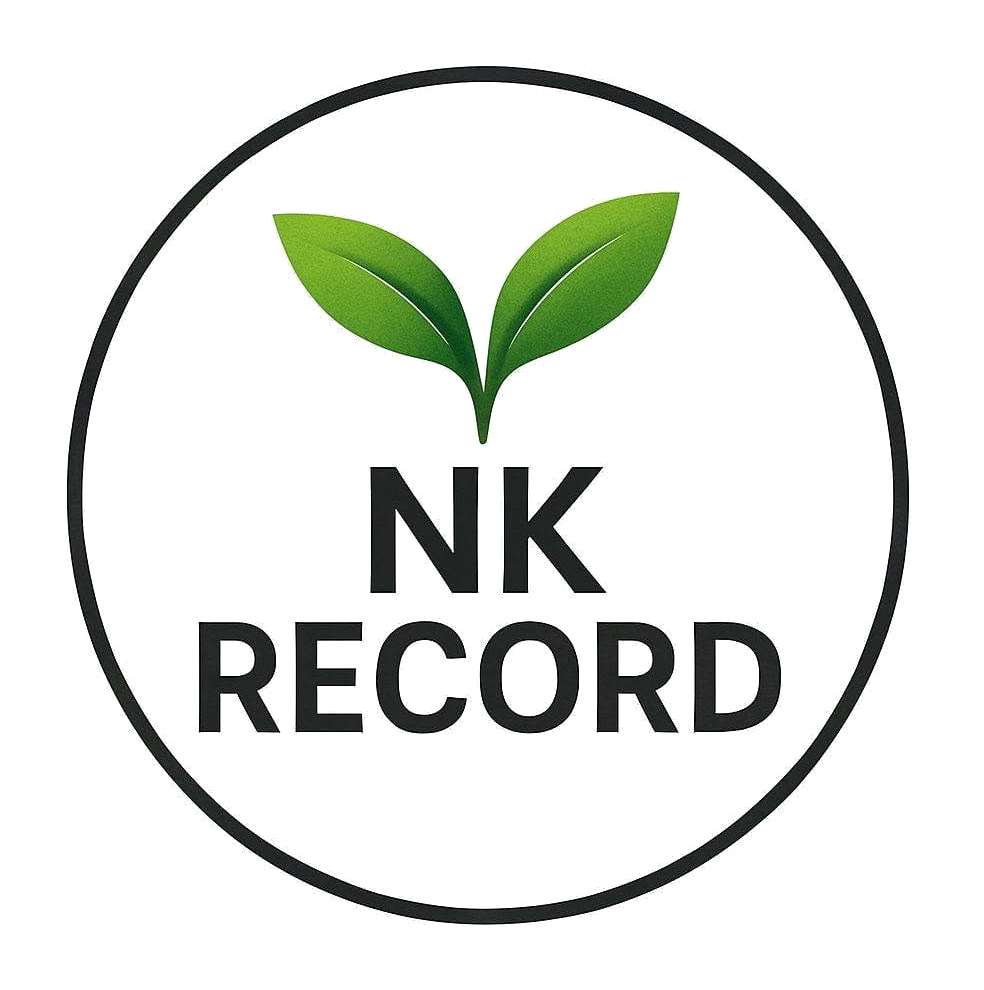
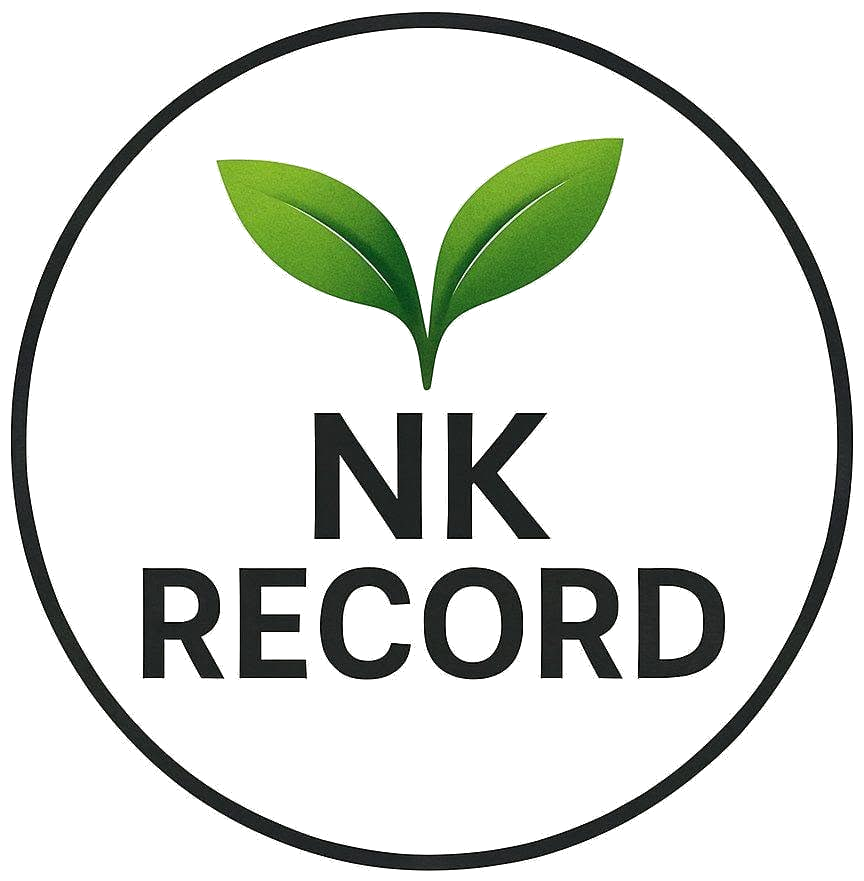
Лого НК Рекорд у розмір інших + прибрано неіснуючий самовивіз
Лого НК Рекорд: у файлі лишався напівпрозорий ореол до самого краю
полотна (альфа 10–128). Через нього object-contain вписував у бокс
полотно разом з ореолом, і сам знак займав 86% замість 100% — на картці
він читався помітно дрібнішим за сусідів. Ореол знято, полотно обрізано
по знаку. Заміряно на масштабі картки: НК і Баланс Агро тепер обидва
55x56px, чорнила заповнюють бокс повністю.

Самовивіз з офісу прибрано з блоку доставки: замовник підтвердив, що
такої послуги немає. Пункт приїхав із референсу, а не з реальних умов
Родоніту. Лишилось три способи доставки. Блок рендериться на сторінках
препаратів — перевірено всі шість, згадок самовивозу нуль.

Порядок чистки в seed виправлено: культури посилаються на препарати,
тому видаляються перед ними — інакше delete падав на зовнішньому ключі
й відкочував усю транзакцію.

Changed region(s): [[0.0, 0.0, 1.0, 1.0]]

diff --git a/lib/content.ts b/lib/content.ts
@@ -368,8 +368,10 @@ export const footerColumns = [
 
 /**
  * Доставка — структура за зразком ukravit.ua/matador.
- * УВАГА: умови не підтверджені замовником. Тексти Нової Пошти й Укрпошти взято
- * з референсу, самовивіз — з власної адреси Родоніт. Звірити з Олегом.
+ *
+ * Самовивіз ПРИБРАНО 10.08.2026: замовник підтвердив, що такої послуги немає
+ * і офіс товар не видає. Не повертати — це був пункт із референсу, а не з
+ * реальних умов Родоніту. Решта пунктів теж чекає підтвердження Олега.
  */
 export const delivery = [
   {
@@ -386,11 +388,6 @@ export const delivery = [
     title: 'Адресна доставка Новою Поштою',
     note: 'за тарифами перевізника',
     icon: 'truck' as const,
-  },
-  {
-    title: 'Самовивіз з офісу в Києві',
-    note: 'вул. Юрія Шумського, 1б, оф. 117',
-    icon: 'pin' as const,
   },
 ];
 

diff --git a/scripts/seed.ts b/scripts/seed.ts
@@ -48,10 +48,12 @@ async function run() {
   const payload = await getPayload({ config });
   console.log('Payload піднято, схема:', process.env.PAYLOAD_DB_SCHEMA || 'public');
 
-  // Порядок: спершу залежні (posts, products), потім довідники, потім media.
+  // Порядок важливий: спершу все, що ПОСИЛАЄТЬСЯ на інші колекції, потім самі
+  // цілі. Культури тримають посилання на препарати, тож ідуть перед ними —
+  // інакше delete падає на зовнішньому ключі й уся транзакція відкочується.
   await clear(payload, [
-    'posts', 'solutions', 'products',
-    'blog-categories', 'cultures', 'categories', 'distributors', 'media',
+    'posts', 'solutions', 'cultures', 'products',
+    'blog-categories', 'categories', 'distributors', 'media',
   ]);
 
   /* ------------------------------------------------ Категорії препаратів */
